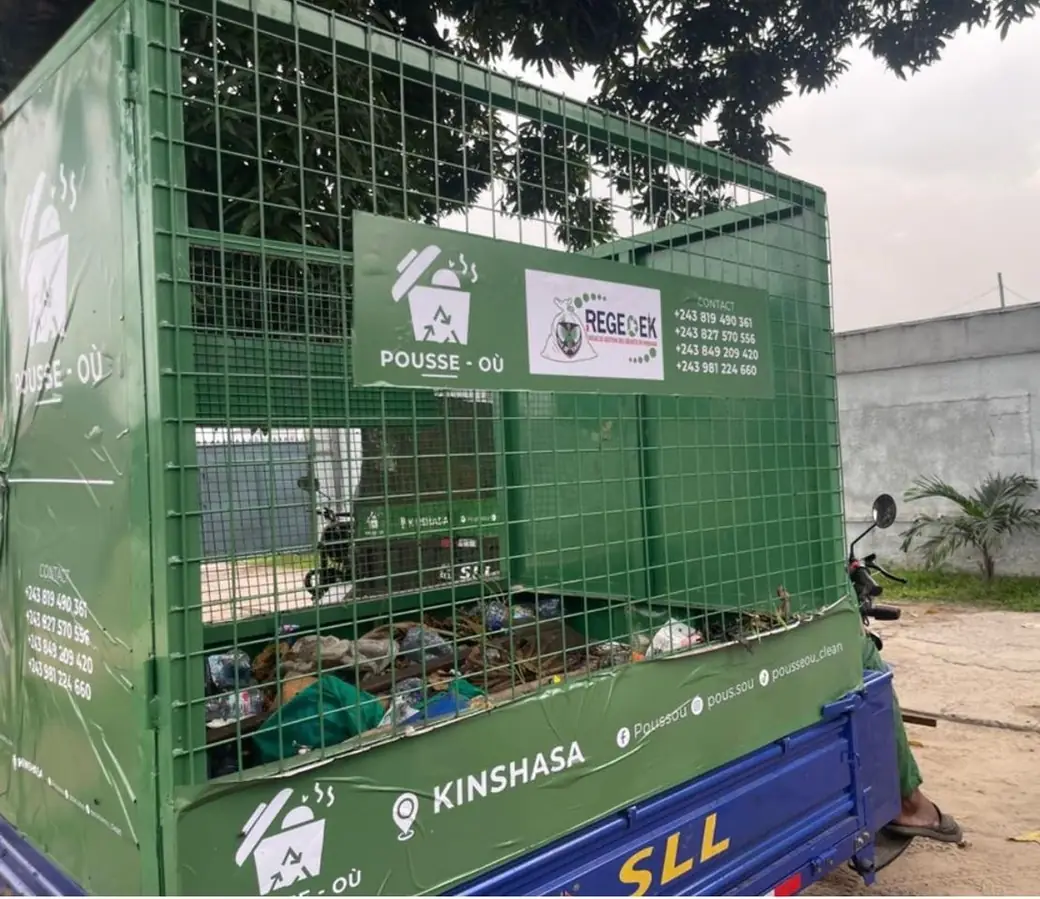
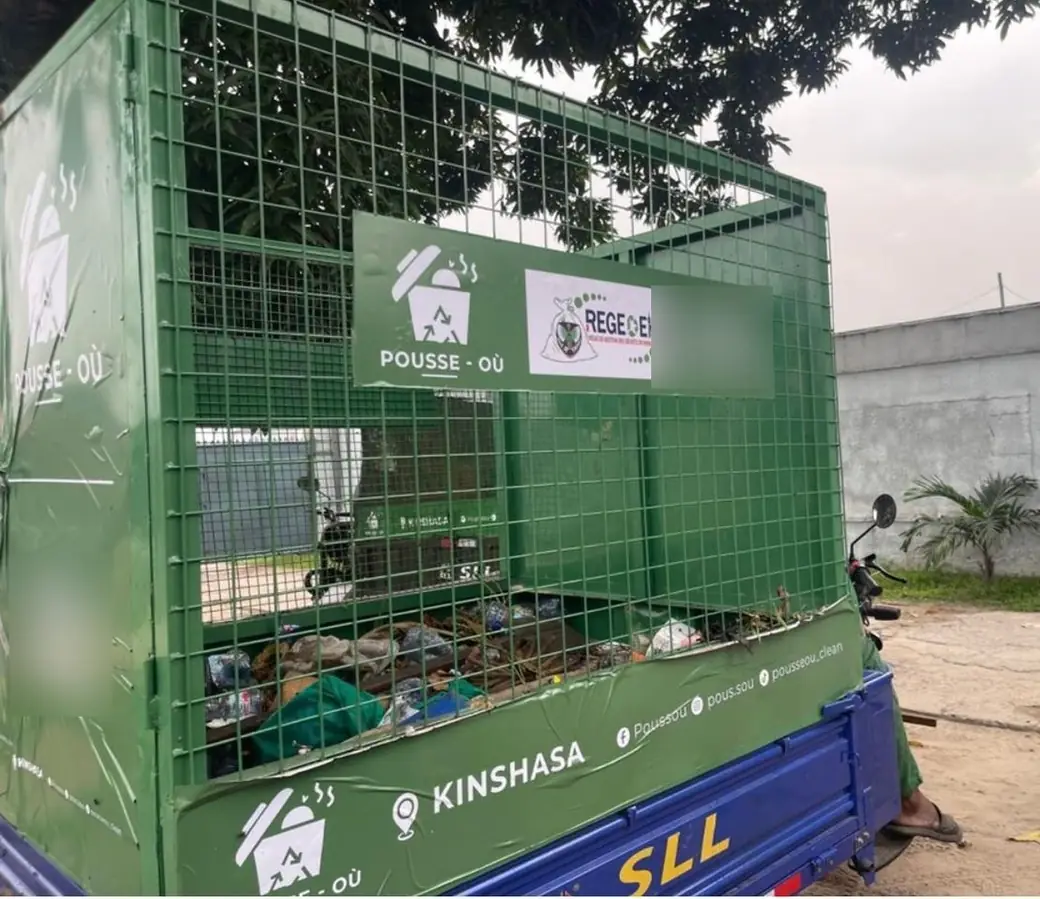
Pousse-Où: remove its phone numbers (contact routed through SUJO, numbers blurred in vehicle photos)

Changed region(s): [[0.6154, 0.3115, 0.7385, 0.436], [0.0, 0.6229, 0.0923, 0.7786]]

diff --git a/pousse-ou.html b/pousse-ou.html
@@ -31,7 +31,7 @@
 </script>
 <script type="application/ld+json">{"@context":"https://schema.org","@type":"ProfessionalService","@id":"https://sujo-engineering.com/#organization","name":"SUJO Engineering Consulting SARL","alternateName":"SUJO","url":"https://sujo-engineering.com/","logo":"https://sujo-engineering.com/img/logo-512.png","image":"https://sujo-engineering.com/img/og-default.jpg","email":"contact@sujo-engineering.com","telephone":"+243976438148","address":{"@type":"PostalAddress","addressLocality":"Kinshasa","addressCountry":"CD"},"areaServed":[{"@type":"Country","name":"Democratic Republic of the Congo"},{"@type":"AdministrativeArea","name":"Kinshasa"}],"availableLanguage":["fr","en"],"contactPoint":[{"@type":"ContactPoint","contactType":"sales","telephone":"+243976438148","email":"contact@sujo-engineering.com","areaServed":"CD","availableLanguage":["fr","en"]},{"@type":"ContactPoint","contactType":"customer support","telephone":"+14123453307","email":"contact@sujo-engineering.com","areaServed":"US","availableLanguage":["en","fr"]}],"openingHoursSpecification":[{"@type":"OpeningHoursSpecification","dayOfWeek":["Monday","Tuesday","Wednesday","Thursday","Friday"],"opens":"08:00","closes":"17:00"}],"knowsAbout":["Engineering consulting","Technical studies","Cost estimation","Project development","Industrial equipment supply","Turnkey systems supply","Industrial sourcing","Spare parts identification"]}</script>
 <script type="application/ld+json">{"@context":"https://schema.org","@type":"BreadcrumbList","itemListElement":[{"@type":"ListItem","position":1,"name":"Home","item":"https://sujo-engineering.com/index.html"},{"@type":"ListItem","position":2,"name":"Pousse-Où","item":"https://sujo-engineering.com/pousse-ou.html"}]}</script>
-<script type="application/ld+json">{"@context":"https://schema.org","@type":"LocalBusiness","name":"Pousse-Où","description":"Waste collection, site cleaning and recycled paving blocks in Kinshasa. Pousse-Où is a subsidiary of SUJO Engineering Consulting.","url":"https://sujo-engineering.com/pousse-ou.html","telephone":["+243819490361","+243827570556","+243849209420","+243981224660"],"address":{"@type":"PostalAddress","addressLocality":"Kinshasa","addressCountry":"CD"},"founder":{"@type":"Person","name":"Aaron Nzangi"},"parentOrganization":{"@id":"https://sujo-engineering.com/#organization"},"makesOffer":[{"@type":"Offer","itemOffered":{"@type":"Service","name":"Waste collection and site cleaning"}},{"@type":"Offer","itemOffered":{"@type":"Product","name":"Recycled paving blocks"}}]}</script>
+<script type="application/ld+json">{"@context":"https://schema.org","@type":"LocalBusiness","name":"Pousse-Où","description":"Waste collection, site cleaning and recycled paving blocks in Kinshasa. Pousse-Où is a subsidiary of SUJO Engineering Consulting.","url":"https://sujo-engineering.com/pousse-ou.html","address":{"@type":"PostalAddress","addressLocality":"Kinshasa","addressCountry":"CD"},"founder":{"@type":"Person","name":"Aaron Nzangi"},"parentOrganization":{"@id":"https://sujo-engineering.com/#organization"},"makesOffer":[{"@type":"Offer","itemOffered":{"@type":"Service","name":"Waste collection and site cleaning"}},{"@type":"Offer","itemOffered":{"@type":"Product","name":"Recycled paving blocks"}}]}</script>
 <script defer src="app.js"></script>
 </head>
 <body class="page-pousse">
@@ -335,12 +335,11 @@
 <div class="po-card po-card--pou">
 <p class="eyebrow" data-fr="Contactez Pousse-Où" data-en="Contact Pousse-Où">Contactez Pousse-Où</p>
 <h2 class="po-card-title" data-fr="Collecte, nettoyage, abonnement ou pavés : échangeons." data-en="Collection, cleaning, a subscription or paving blocks: let’s talk.">Collecte, nettoyage, abonnement ou pavés : échangeons.</h2>
-<ul class="po-phones">
-<li><a href="tel:+243819490361">+243 819 490 361</a></li>
-<li><a href="tel:+243827570556">+243 827 570 556</a></li>
-<li><a href="tel:+243849209420">+243 849 209 420</a></li>
-<li><a href="tel:+243981224660">+243 981 224 660</a></li>
-</ul>
+<p class="po-card-text" data-fr="Décrivez votre site et votre besoin : le groupe SUJO transmet votre demande à l’équipe Pousse-Où, qui revient vers vous." data-en="Tell us about your site and what you need: the SUJO group passes your request to the Pousse-Où team, who will get back to you.">Décrivez votre site et votre besoin : le groupe SUJO transmet votre demande à l’équipe Pousse-Où, qui revient vers vous.</p>
+<div class="po-card-actions">
+<a class="btn po-btn-lime" href="quote.html" data-fr="Demander une collecte" data-en="Request a collection">Demander une collecte</a>
+<a class="btn btn-outline btn-on-dark" href="contact.html" data-fr="Nous écrire" data-en="Write to us">Nous écrire</a>
+</div>
 <div class="po-card-foot">
 <strong data-fr="Kinshasa" data-en="Kinshasa">Kinshasa</strong>
 <span data-fr="Instagram : pous.sou  ·  TikTok : pousseou_clean" data-en="Instagram: pous.sou  ·  TikTok: pousseou_clean">Instagram : pous.sou  ·  TikTok : pousseou_clean</span>

diff --git a/pousseou.css b/pousseou.css
@@ -198,9 +198,6 @@
 .page-pousse .po .po-card--sujo .eyebrow { color: #ff6b6b; }
 .page-pousse .po-card-title { margin: 0 0 22px; font-size: clamp(1.3rem, 2.4vw, 1.7rem); line-height: 1.3; color: #fff; }
 .page-pousse .po-card-text { margin: 0; color: rgba(255, 255, 255, .82); }
-.page-pousse .po-phones { display: grid; gap: 10px 28px; grid-template-columns: repeat(2, minmax(0, 1fr)); margin: 0; padding: 0; list-style: none; }
-.page-pousse .po-phones a { font-size: clamp(1.1rem, 2vw, 1.4rem); font-weight: 700; color: #fff; text-decoration: none; white-space: nowrap; }
-.page-pousse .po-phones a:hover { color: var(--po-lime); }
 .page-pousse .po-card-foot {
   margin-top: 24px; padding-top: 20px; padding-right: 110px;
   border-top: 1px solid rgba(255, 255, 255, .2); font-size: .92rem; color: rgba(255, 255, 255, .85);
